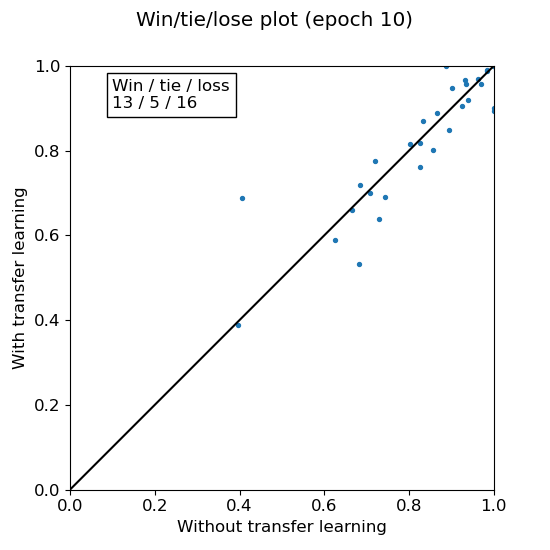
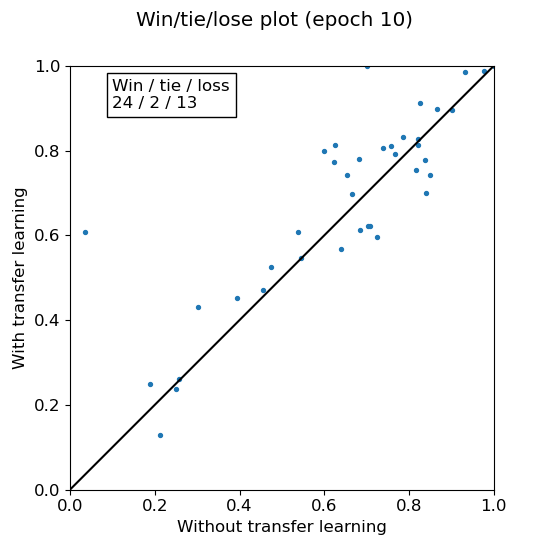
great results ensemble small fcn

diff --git a/src/results/ensemble/get_metrics_per_epoch.py b/src/results/ensemble/get_metrics_per_epoch.py
@@ -1,4 +1,6 @@
 import json
+from datetime import datetime
+
 import matplotlib.pyplot as plt
 import numpy as np
 from mlflow import MlflowClient
@@ -15,6 +17,8 @@ for run in runs:
         run.info.status == "FINISHED"
         and run.info.run_name not in ("plain model", "ensemble")
         and run.info.lifecycle_stage == "active"
+        and datetime.fromtimestamp(run.info.end_time / 1000)
+        >= datetime(2023, 3, 18, 6, 0)
     ):
         history_entry = json.load(open(run.info.artifact_uri + "/history.json"))
         if min([len(x) for x in history_entry.values()]) == 10:
